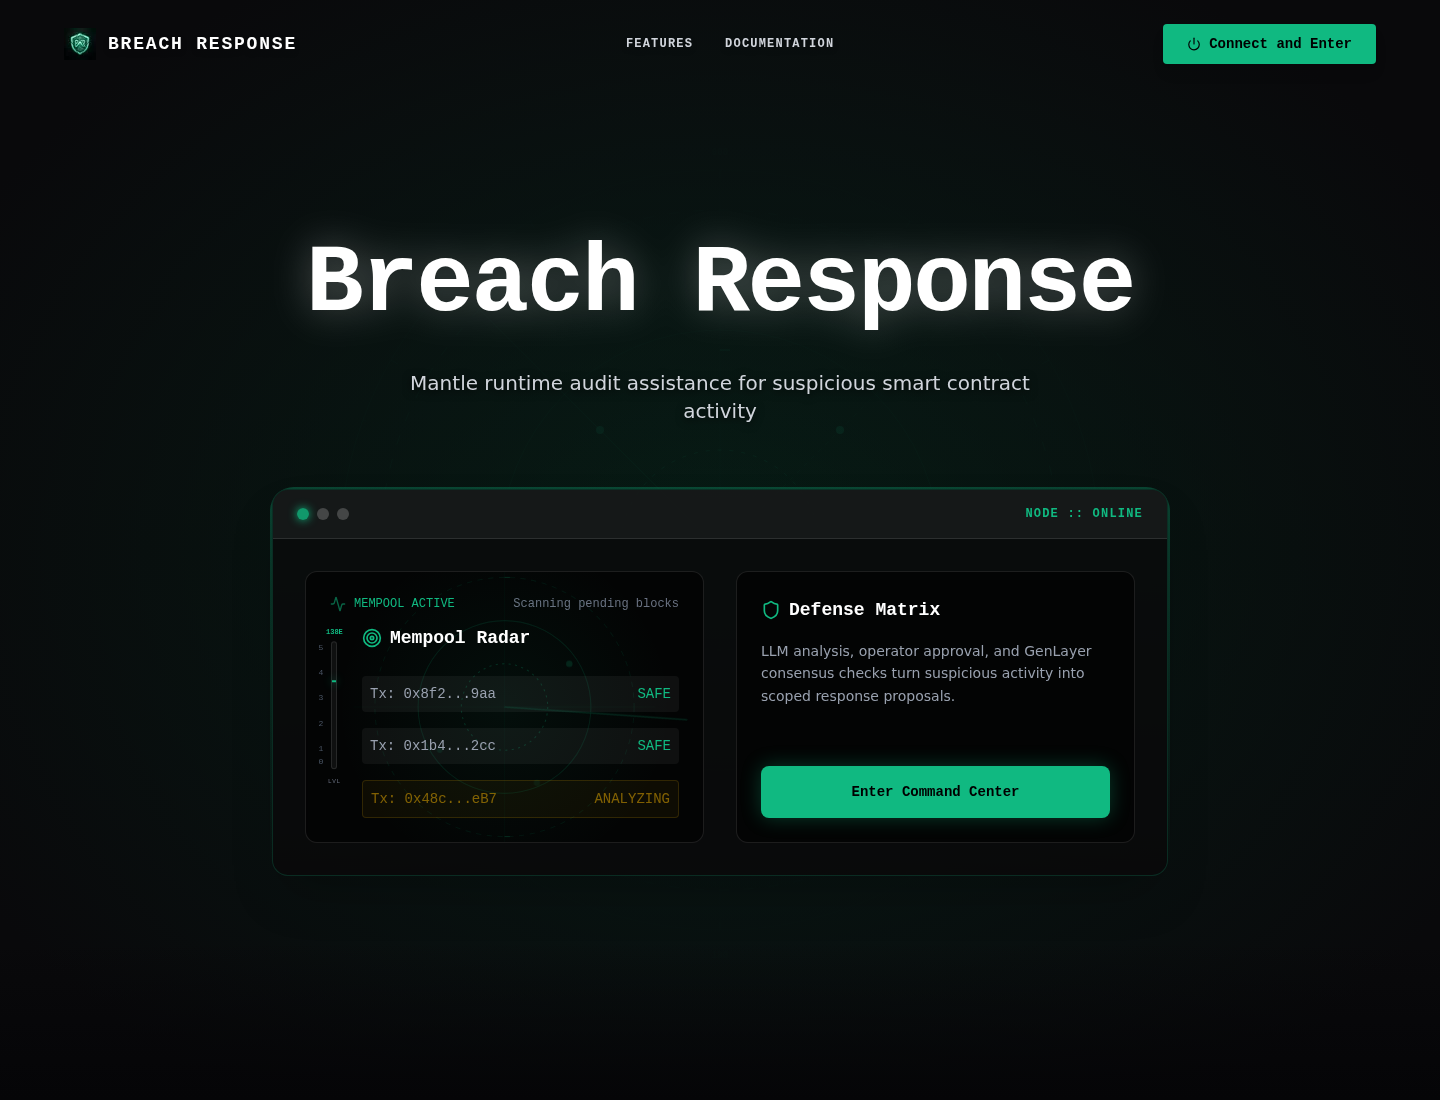
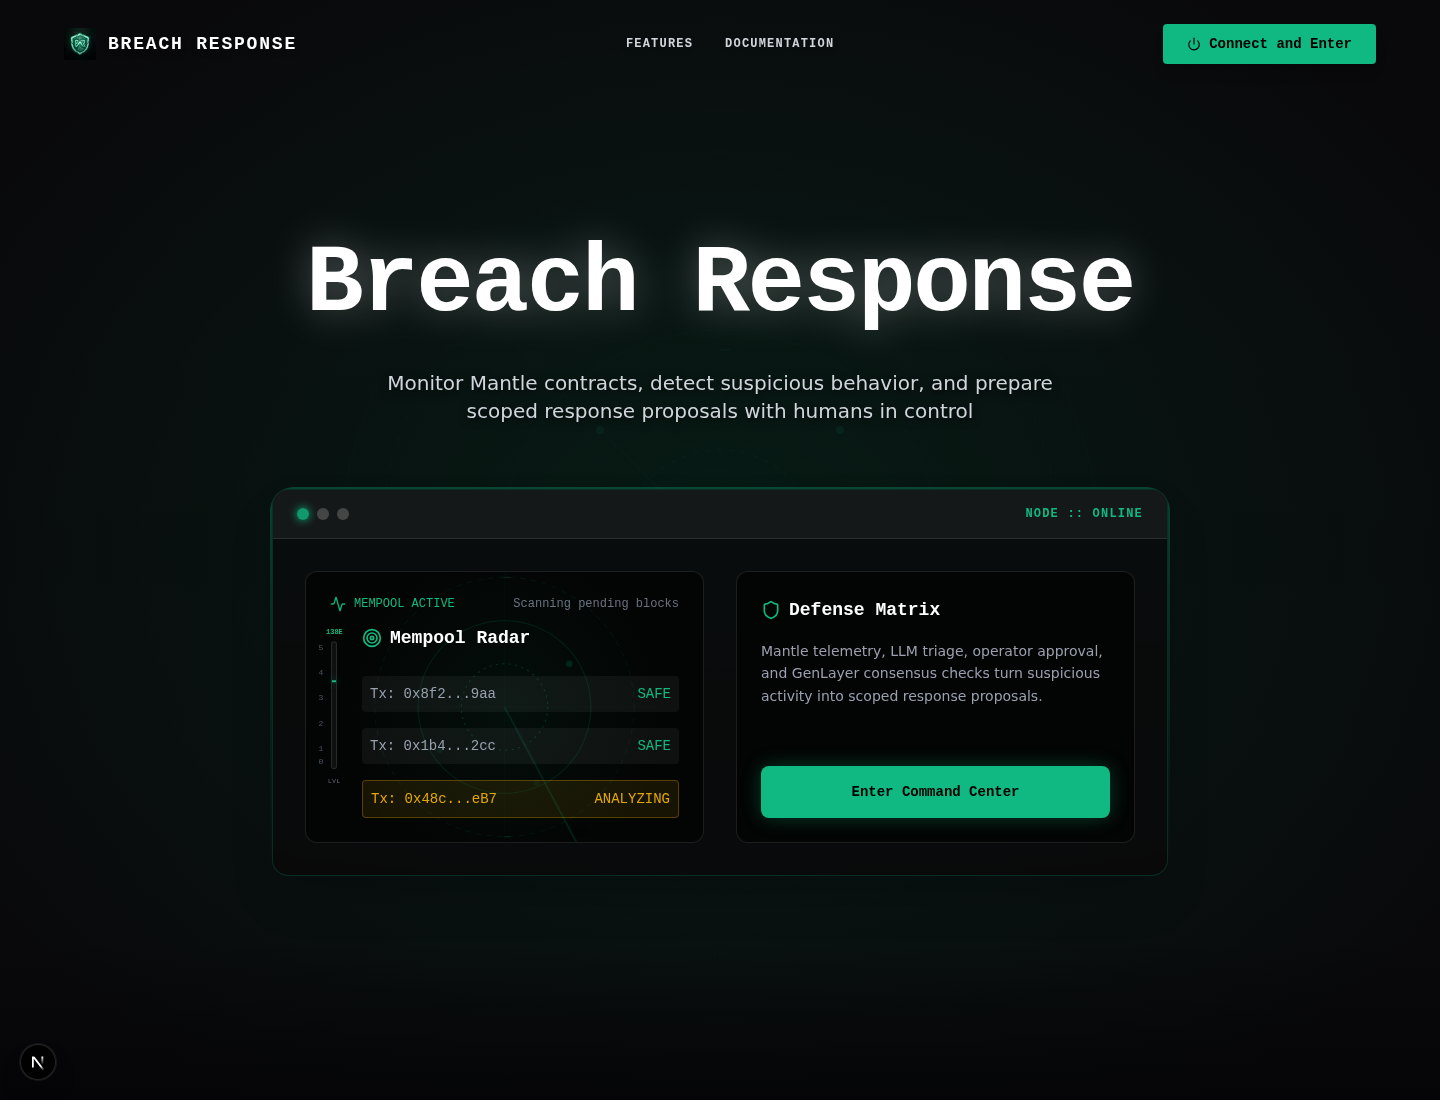
polish launch narrative and screenshots (#56)

diff --git a/frontend/src/app/page.tsx b/frontend/src/app/page.tsx
@@ -280,7 +280,7 @@ export default function LandingPage() {
               Breach Response
             </h1>
             <p className="text-lg md:text-xl text-gray-300 max-w-2xl mx-auto drop-shadow-[0_2px_4px_rgba(0,0,0,0.8)] font-sans">
-              Mantle runtime audit assistance for suspicious smart contract activity
+              Monitor Mantle contracts, detect suspicious behavior, and prepare scoped response proposals with humans in control
             </p>
           </motion.div>
 
@@ -364,7 +364,7 @@ export default function LandingPage() {
                   <div>
                     <h3 className="text-white font-bold mb-4 flex items-center gap-2 text-lg"><Shield className="w-5 h-5 text-[#10B981]" /> Defense Matrix</h3>
                     <p className="text-sm text-gray-400 mb-8 leading-relaxed font-sans">
-                      LLM analysis, operator approval, and GenLayer consensus checks turn suspicious activity into scoped response proposals.
+                      Mantle telemetry, LLM triage, operator approval, and GenLayer consensus checks turn suspicious activity into scoped response proposals.
                     </p>
                   </div>
                   <button
@@ -395,7 +395,7 @@ export default function LandingPage() {
         <div className="container mx-auto px-6 relative z-10 text-center">
           <h2 className="text-3xl md:text-4xl font-bold text-white mb-6">Pipeline Execution</h2>
           <p className="text-gray-400 font-sans max-w-2xl mx-auto mb-16">
-            Three controlled stages for reviewing suspicious smart contract activity on Mantle
+            A clear path from contract monitoring to human-approved response on Mantle
           </p>
         </div>
         <div className="relative grid grid-cols-1 md:grid-cols-3 gap-12 md:gap-8 items-start">
@@ -410,9 +410,9 @@ export default function LandingPage() {
               </svg>
             </div>
             <span className="text-xs text-[#10B981] font-bold tracking-widest mb-2 block uppercase">01 / Monitor</span>
-            <h3 className="text-lg font-bold text-white mb-3">Runtime Signal Scan</h3>
+            <h3 className="text-lg font-bold text-white mb-3">Contract Watch</h3>
             <p className="text-xs text-gray-400 font-sans leading-relaxed">
-              The sentinel watches Mantle RPC activity and flags unusual contract behavior for review
+              Sentinels watch Mantle RPC activity, registered contracts, and telemetry from protected protocols
             </p>
           </div>
           <div className="flex flex-col items-center text-center px-4 relative">
@@ -431,10 +431,10 @@ export default function LandingPage() {
                 <circle cx="18" cy="18" r="2" fill="currentColor" />
               </svg>
             </div>
-            <span className="text-xs text-[#10B981] font-bold tracking-widest mb-2 block uppercase">02 / Formulate</span>
+            <span className="text-xs text-[#10B981] font-bold tracking-widest mb-2 block uppercase">02 / Detect</span>
             <h3 className="text-lg font-bold text-white mb-3">AI Incident Triage</h3>
             <p className="text-xs text-gray-400 font-sans leading-relaxed">
-              If an exploit pattern is identified, the sentinel agent produces a scoped response proposal for operator review
+              Suspicious calls, repeated event patterns, and protocol anomalies become structured incident context
             </p>
           </div>
           <div className="flex flex-col items-center text-center px-4 relative">
@@ -449,9 +449,9 @@ export default function LandingPage() {
               </svg>
             </div>
             <span className="text-xs text-[#10B981] font-bold tracking-widest mb-2 block uppercase">03 / Approve</span>
-            <h3 className="text-lg font-bold text-white mb-3">Approval Routing</h3>
+            <h3 className="text-lg font-bold text-white mb-3">Human Gate</h3>
             <p className="text-xs text-gray-400 font-sans leading-relaxed">
-              The response proposal is routed to wallet, multisig, or policy-controlled approval before any execution
+              Proposed calldata stays behind operator, multisig, or policy approval before any Mantle-side action
             </p>
           </div>
         </div>
@@ -488,7 +488,7 @@ export default function LandingPage() {
             </div>
             <div className="mt-8 pt-6 border-t border-gray-800/60 font-mono text-[10px] space-y-2 text-gray-500">
               <div className="flex justify-between"><span>MODEL</span> <span className="text-gray-400">OpenAI-compatible</span></div>
-              <div className="flex justify-between"><span>ACCURACY</span> <span className="text-[#10B981]">GenLayer fallback</span></div>
+              <div className="flex justify-between"><span>GUARD</span> <span className="text-[#10B981]">GenLayer consensus</span></div>
             </div>
           </motion.div>
           <motion.div variants={fadeInUp}>
@@ -695,7 +695,7 @@ export default function LandingPage() {
               <span className="text-lg font-bold tracking-widest text-white">BREACH RESPONSE</span>
             </div>
             <p className="text-gray-500 text-sm leading-relaxed font-sans max-w-xs">
-              Mantle runtime audit assistance for suspicious smart contract activity
+              Mantle contract monitoring, anomaly detection, and human-approved response routing
             </p>
           </div>
           

diff --git a/frontend/src/lib/db.ts b/frontend/src/lib/db.ts
@@ -32,6 +32,16 @@ const globalStore = globalThis as unknown as {
 
 const seedNodes: SentinelNode[] = [
   {
+    id: 'sentinel-ax-node',
+    name: 'Sentinel.ax Node',
+    address: '0x9f758be3ae3D985713964339E2f0bD783fC6015c',
+    status: 'ACTIVE',
+    latency: '8ms',
+    events: 939,
+    lastHeartbeat: new Date(),
+    registeredAt: new Date('2026-01-03T00:00:00.000Z')
+  },
+  {
     id: 'mantleswap-sentinel',
     name: 'MantleSwap Sentinel',
     address: '0x5e8c000000000000000000000000000000001a2f',

diff --git a/frontend/src/app/dashboard/page.tsx b/frontend/src/app/dashboard/page.tsx
@@ -565,10 +565,10 @@ export default function Dashboard() {
             {valueMetrics ? `$${valueMetrics.totalUsd.toLocaleString(undefined, { maximumFractionDigits: 2 })}` : valueMetricsError ? 'N/A' : '...' }
           </div>
           <p className="mt-2 text-[9px] leading-relaxed text-gray-500 font-sans">
-            {valueMetrics ? summarizeValueMetrics(valueMetrics) : 'Mantle Sepolia RPC, read-only'}
+            {valueMetrics ? summarizeValueMetrics(valueMetrics) : 'Read-only balance aggregation. No signer, private key, or transaction.'}
           </p>
           <p className="mt-1 text-[8px] uppercase tracking-widest text-[#10B981]/80">
-            Mantle Sepolia RPC, read-only
+            Read-only RPC. No signer, private key, or transaction.
           </p>
         </div>
 

diff --git a/README.md b/README.md
@@ -25,6 +25,17 @@ Smart contract teams rarely get a clean decision window during an incident. Brea
 5. Keep high-risk actions behind human approval and scoped policy controls.
 6. Record the review trail for follow-up and audit.
 
+## How it works
+
+1. A protocol registers a protected Mantle contract or sentinel address.
+2. The sentinel watches Mantle RPC activity, telemetry, and registered protocol state.
+3. Suspicious behavior becomes structured incident context instead of a vague alert.
+4. The agent prepares scoped response calldata and routes ambiguous cases through the external decision guard.
+5. The operator approves or rejects the action before any Mantle-side execution.
+
+## Backed value monitoring
+
+The Command Center includes a **Value Monitored** card backed by read-only Mantle Sepolia RPC calls. It aggregates native MNT balances from active sentinel addresses and optional allowlisted ERC-20 balances. The route uses no signer, no private key, and no transaction. Missing token prices stay unavailable instead of being faked.
 
 ## Product scope
 

diff --git a/docs/REVIEW_WORKFLOW.md b/docs/REVIEW_WORKFLOW.md
@@ -5,14 +5,14 @@ Use this path when showing BreachResponse to reviewers, operators, or protocol t
 ## Review path
 
 1. Open the landing page and point to the top-level product promise: AI-assisted runtime review for Mantle activity.
-2. Click **Features**. It should land on **Pipeline Execution**, the three-stage Monitor, Formulate, Intercept flow.
+2. Click **Features**. It should land on **Pipeline Execution**, the monitor, detect, propose, approve, and execute flow.
 3. Click **Enter Command Center**. The app opens the operator dashboard.
 4. Connect a Mantle Sepolia wallet if you want to show live wallet state. Without a wallet, the dashboard still shows the safe disconnected state and keeps guard actions disabled. After connecting, confirm the header exposes an intentional disconnect control.
 5. Review the Command Center cards:
    - **Blocks Scanned** shows monitored activity.
    - **Active Sentinels** shows registered monitoring nodes.
-   - **Value Secured** is clearly marked as controlled product value.
-   - **Response Proposals** tracks successful controlled responses.
+   - **Value Monitored** shows read-only RPC balance aggregation from active sentinel addresses.
+   - **Response Proposals** tracks operator-review items that still require approval before execution.
 6. Review **Register Sentinel Guard**. The guard initialization action stays disabled until a Mantle wallet is connected and the operator supplies a contract address.
 7. Review **GenLayer Consensus Guard**. Explain that normal users keep their wallet on Mantle. The app layer submits ambiguous Mantle incident context to GenLayer StudioNet, then uses the validator consensus result before proposing a Mantle-side response.
 8. Use **Threat History** to show past incident records and post-incident review.

diff --git a/docs/ANALYTICS.md b/docs/ANALYTICS.md
@@ -8,4 +8,4 @@
 
 ## Dashboard Specs (Frontend)
 - The main UI itself is an analytics dashboard for the protocol.
-- It displays a live chart of "Value at Risk" vs "Value Secured".
+- It displays backed dashboard metrics such as live sentinel activity, worker checks, and read-only value monitored from active sentinel addresses.

diff --git a/docs/ROADMAP.md b/docs/ROADMAP.md
@@ -35,4 +35,4 @@
 
 ## Scope guardrails
 
-BreachResponse stays focused on Mantle runtime audit assistance and controlled incident response. Byreal Skills CLI, DEX trading, liquidity management, and agentic wallet economy features remain out of scope unless the product intentionally pivots to the Agentic Wallets & Economy track.
+BreachResponse stays focused on Mantle runtime audit assistance and controlled incident response. Byreal Skills CLI, DEX trading, liquidity management, and agentic wallet economy features remain out of scope unless the product intentionally pivots toward wallet-economy automation.